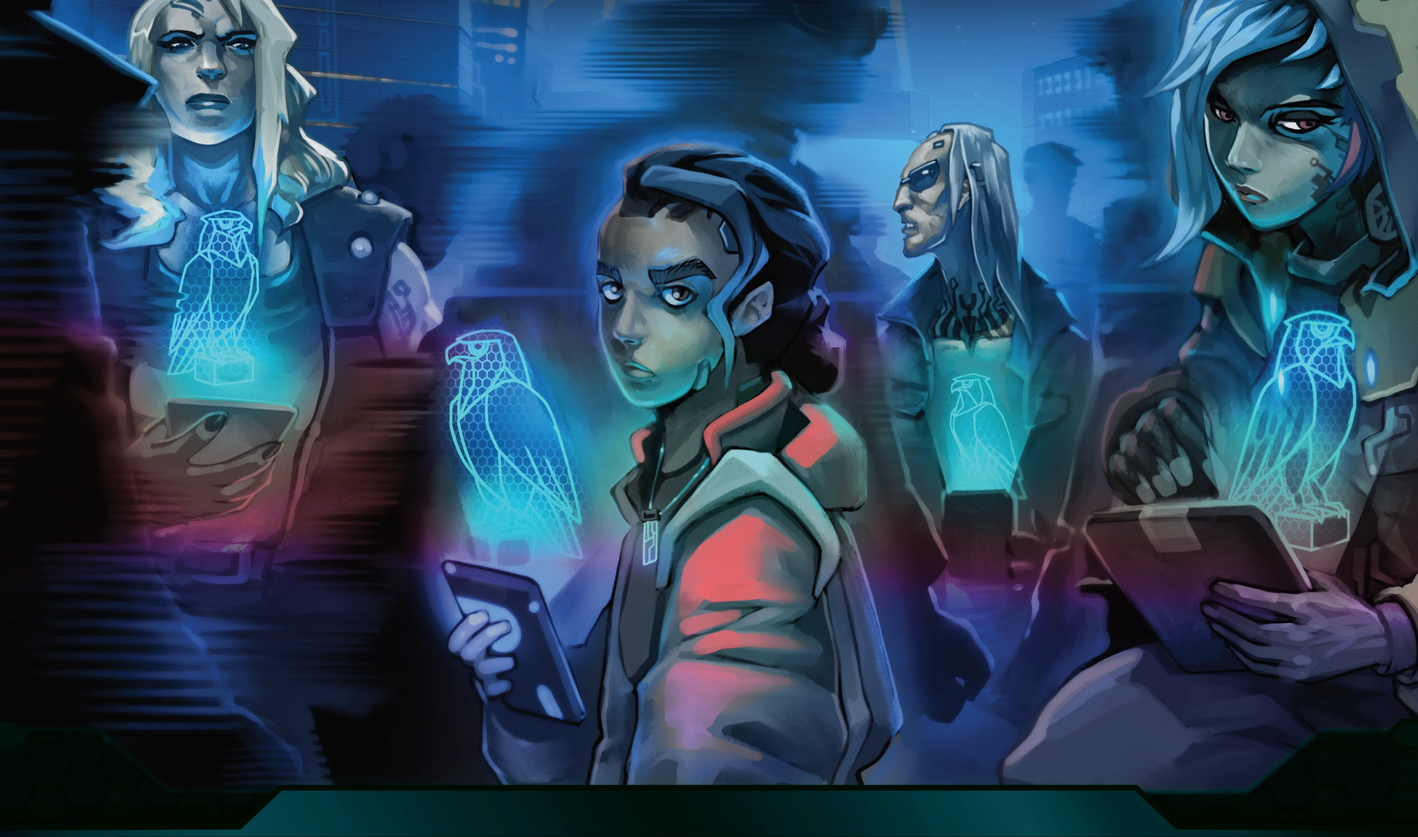
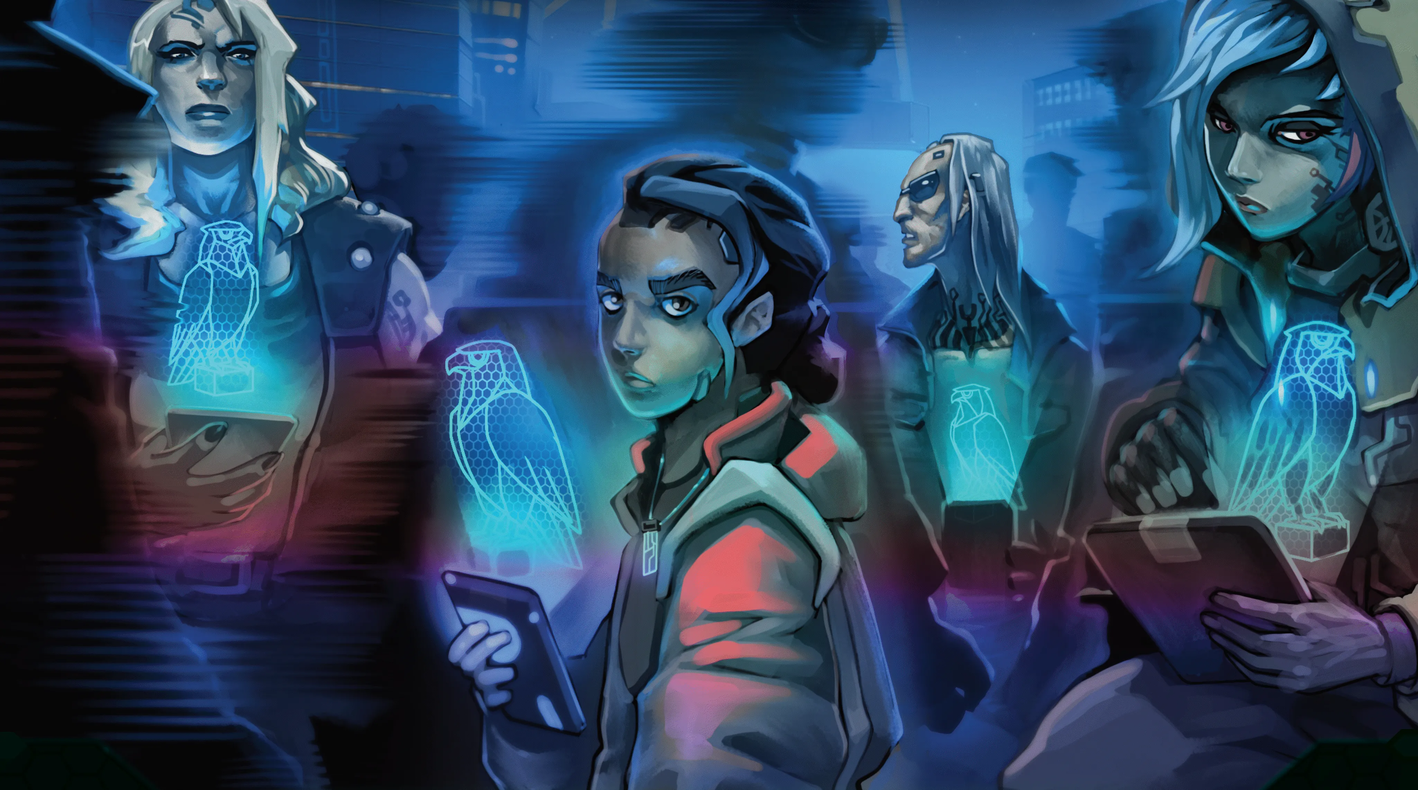
feat: 移动端的一些样式优化

diff --git a/src/pages/INDEX/style.less b/src/pages/INDEX/style.less
@@ -142,17 +142,24 @@
   background-color: white;
 }
 
-// 添加公众号关注按钮样式
-.showBackgroundButton,
-.niseiClickContainer {
+// 添加右侧按钮容器样式
+.rightButtonsContainer {
   position: absolute;
   top: 20px;
   right: 20px;
+  display: flex;
+  flex-direction: column;
+  gap: 10px;
+  z-index: 1000;
+}
+
+// 添加公众号关注按钮样式
+.niseiClickContainer,
+.showBackgroundButton {
   cursor: pointer;
   display: flex;
   align-items: center;
   flex-direction: column;
-  z-index: 1000;
   padding: 4px 6px;
   border-radius: 4px;
   transition: all 0.3s;
@@ -172,6 +179,12 @@
     background: linear-gradient(135deg, rgba(50, 50, 50, 0.7), rgba(30, 30, 30, 0.4));
     transition: background 0.5s ease;
   }
+}
+
+.niseiClickText {
+  color: white;
+  font-family: CommonFont;
+  font-size: 18px;
 }
 
 .showBackgroundButton {
@@ -240,7 +253,7 @@
     }
 
     .animatedPage {
-      margin-top: 10px;
+      margin-top: 20%;
       display: block;
 
       .animatedText {
@@ -271,11 +284,11 @@
     .pageContainer {
       .indicators {
         position: absolute;
-        top: 50%; // 定位到右侧
+        top: 50%;
         left: 95%;
-        display: flex; // 垂直排列
+        display: flex;
         flex-direction: column;
-        gap: 10px; // 指示器之间的间距
+        gap: 10px;
         z-index: 100;
       }
 
@@ -290,6 +303,37 @@
 
       .indicator.active {
         background-color: white;
+      }
+    }
+
+    // 移动端右侧按钮容器改为水平排列
+    .rightButtonsContainer {
+      top: 10px;
+      right: 0;
+      transform: unset;
+      flex-direction: row;
+      gap: 8px;
+      width: 100%;
+      justify-content: space-between;
+      padding: 0 10px;
+    }
+
+    .niseiClickContainer,
+    .showBackgroundButton {
+      padding: 3px 5px;
+      width: fit-content;
+
+      .niseiClickText {
+        font-size: 14px;
+      }
+
+      .qrcode {
+        font-size: 12px;
+      }
+
+      .niseiClickIcon {
+        width: 18px;
+        height: 18px;
       }
     }
   }

diff --git a/src/pages/INDEX/index.jsx b/src/pages/INDEX/index.jsx
@@ -140,19 +140,21 @@ const INDEX = () => {
 
   return (
     <div className={styles.IndexPage}>
-      {/* 当 currentPage 为 0 时显示 NISEI_CLICK 关注公众号，使用淡入淡出效果 */}
-      <div
-        className={`${styles.niseiClickContainer} ${currentPage === 0 ? styles.fadeIn : styles.fadeOut}`}
-        onClick={() => setModalVisible(true)}
-      >
-        <span className={styles.niseiClickText}>关注公众号</span>
-        <div className={styles.qrcode}><img src={NISEI_CLICK} className={styles.niseiClickIcon} />矩阵潜袭</div>
-      </div>
-      <div
-        className={`${styles.showBackgroundButton} ${currentPage === 0 ? styles.fadeIn : styles.fadeOut}`}
-        onClick={() => setIsPure(!isPure)}
-      >
-        <span className={styles.niseiClickText}>{!isPure ? '酷黑模式' : '炫彩模式'}</span>
+      {/* 右侧按钮容器 - 包含关注公众号和酷黑模式 */}
+      <div className={styles.rightButtonsContainer}>
+        <div
+          className={`${styles.niseiClickContainer} ${currentPage === 0 ? styles.fadeIn : styles.fadeOut}`}
+          onClick={() => setModalVisible(true)}
+        >
+          <span className={styles.niseiClickText}>关注公众号</span>
+          <div className={styles.qrcode}><img src={NISEI_CLICK} className={styles.niseiClickIcon} />矩阵潜袭</div>
+        </div>
+        <div
+          className={`${styles.showBackgroundButton} ${currentPage === 0 ? styles.fadeIn : styles.fadeOut}`}
+          onClick={() => setIsPure(!isPure)}
+        >
+          <span className={styles.niseiClickText}>{!isPure ? '酷黑模式' : '炫彩模式'}</span>
+        </div>
       </div>
       {/* 弹窗模态框 */}
       <Modal

diff --git a/src/pages/ENVIRONMENT/style.less b/src/pages/ENVIRONMENT/style.less
@@ -35,12 +35,14 @@
 }
 
 .pageHeader {
-  position: relative;
+  position: sticky;
+  top: 0;
   display: flex;
   flex-direction: column;
   justify-content: center;
   align-items: center;
   padding: 20px;
+  z-index: 10;
 
   h2 {
     font-family: 'XiangSuFont';
@@ -223,15 +225,17 @@
 .buttonSection {
   display: flex;
   justify-content: space-between;
-  flex: 1;
+  // align-items: center; // 新增：垂直居中对齐
+  gap: 20px
 }
 
 .leftButtons,
 .rightButtons {
-  flex: 1;
+  flex: 1; // 保持不变：占据 1/3 宽度
   display: flex;
   flex-direction: column;
   align-items: center;
+  // justify-content: center; // 新增：内容垂直居中
 
   h3 {
     margin-bottom: 15px;
@@ -239,7 +243,10 @@
 }
 
 .middle {
-  height: 300px;
+  flex: 1; // 修改：图片也占据 1/3 宽度
+  height: 500px;
+  object-fit: contain; // 新增：保持图片比例
+  max-width: 100%; // 新增：防止溢出
 }
 
 .buttonGrid {
@@ -255,7 +262,6 @@
   display: flex;
   flex-wrap: wrap;
   gap: 10px;
-  width: 100%;
 }
 
 .techButton {
@@ -594,6 +600,7 @@
 
       .middle {
         height: unset;
+        margin: 20px
       }
 
       .rightButtons {

diff --git a/src/pages/ENVIRONMENT/index.jsx b/src/pages/ENVIRONMENT/index.jsx
@@ -132,7 +132,7 @@ const ENVIRONMENT = () => {
           {!isSmallScreen && <img className={styles.middle} src={environmentImg} />}
 
           {/* 右侧按钮 - 循环区 */}
-          <div className={styles.rightButtons} style={isSmallScreen ? { marginTop: '10px' } : { minWidth: '420px' }}>
+          <div className={styles.rightButtons} style={isSmallScreen ? { marginTop: '10px' } : {}}>
             <div className={styles.cycleButtons}>
               {cycleText?.map(item => <button className={styles.cycleButton} style={{ background: `linear-gradient(135deg, ${item.color}, #ffffff00)` }} onClick={() => showCycle(item.key)}>
                 <img src={item.logo} className={styles.cycleLogo} />  {item.title}

diff --git a/src/pages/FACTION/style.less b/src/pages/FACTION/style.less
@@ -120,6 +120,7 @@
     align-items: center;
     justify-content: flex-end;
     justify-content: space-between;
+    flex-wrap: wrap;
 
     img {
       width: 150px;

diff --git a/src/layouts/style.less b/src/layouts/style.less
@@ -55,6 +55,7 @@
   .layout-contain {
     height: calc(100vh - 85px);
     min-height: 650px;
+    overflow: auto;
   }
 
   .layout-footer {
